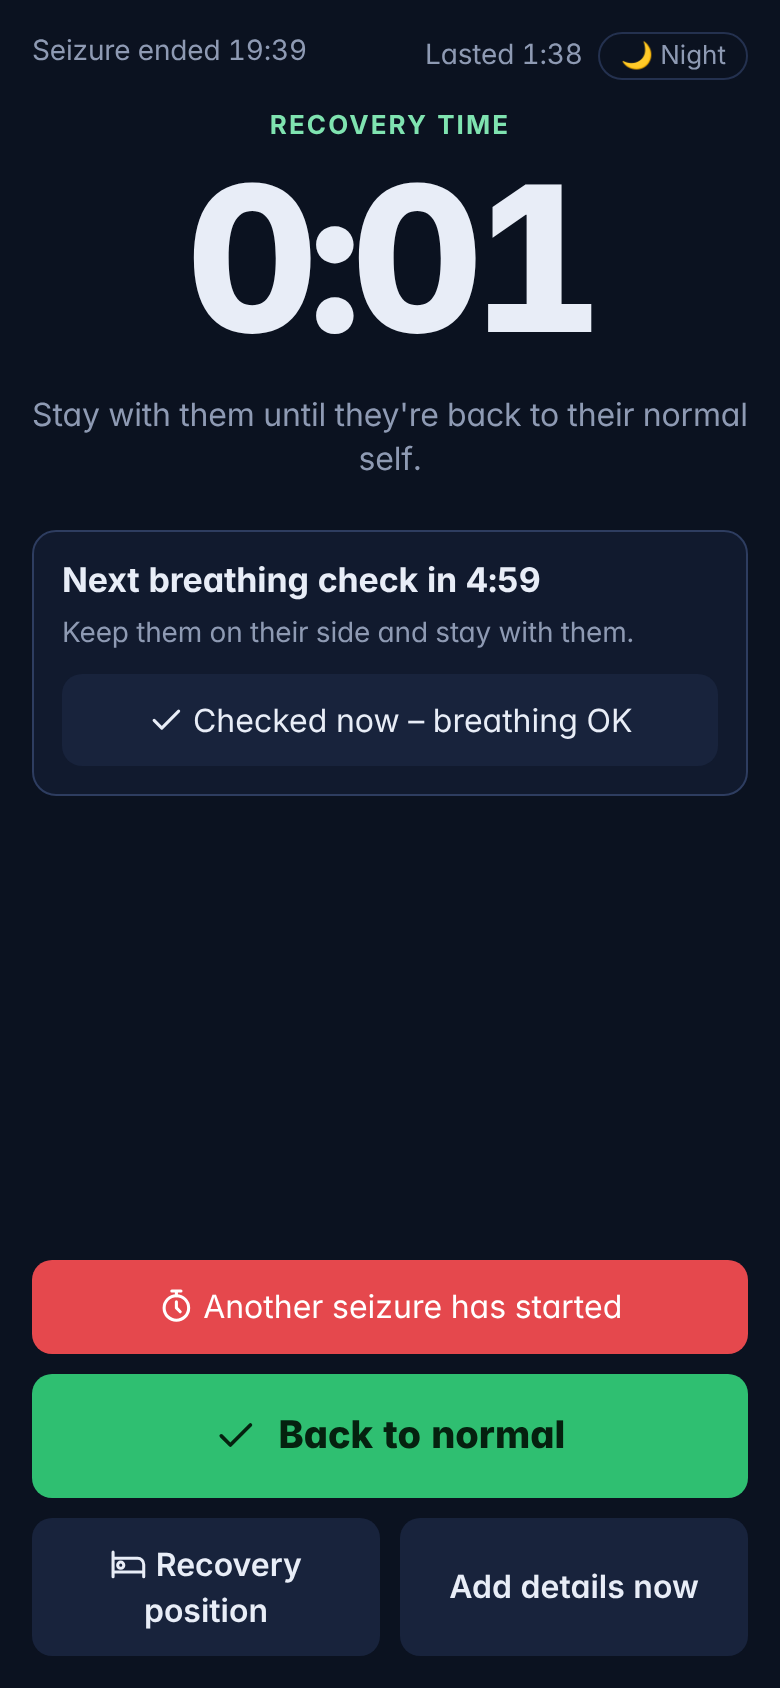
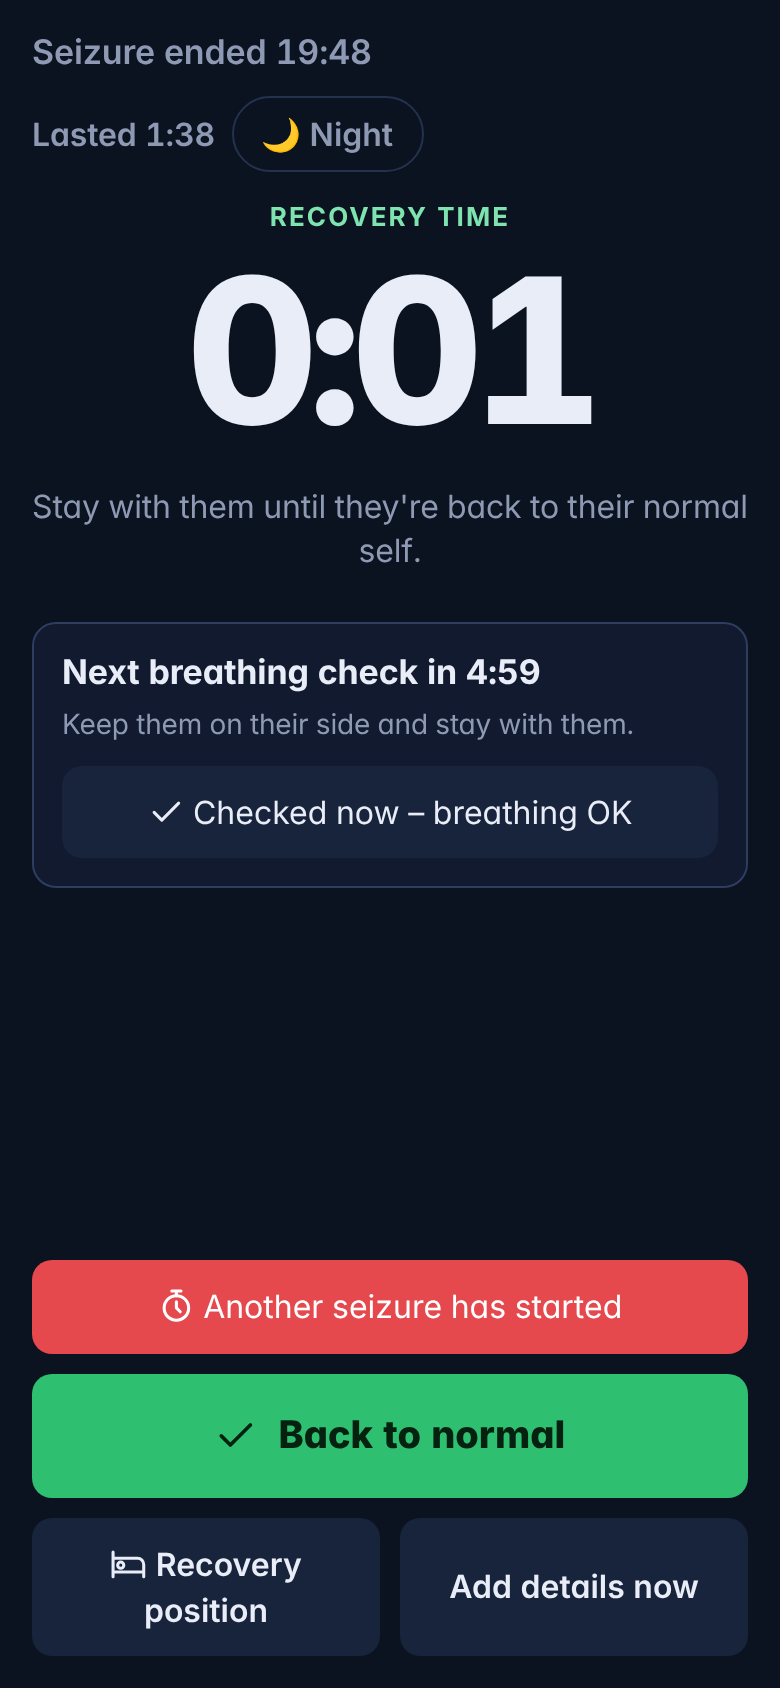
Bigger timer header (started time, alarm, night button); 'Alarm at 18 min' instead of '18:00'
Claude-Session: https://claude.ai/code/session_01UzPKDsSjRLwPgmuY5C3WvR

diff --git a/index.html b/index.html
@@ -520,6 +520,12 @@ html[data-theme="light"] body:not(.emergency) .obcard{box-shadow:0 1px 2px rgba(
 #battWrap{flex:1 1 0;min-height:0;display:flex;align-items:center;justify-content:center;width:100%}
 #battWarn{margin:0;padding:6px 12px;border-radius:999px;background:#fff4d6;color:#7a4b00;font-weight:600;font-size:14px;width:max-content;max-width:100%}
 #timer.night #battWarn{background:#1a0a02!important}
+/* larger timer header */
+#timer .top,#recov .top{font-size:17px!important;font-weight:600;gap:8px;flex-wrap:wrap;align-items:center}
+#timer .top>span:last-child,#recov .top>span:last-child{display:flex;align-items:center;gap:8px}
+#tAlarmAt{font-size:16px!important;font-weight:700!important;padding:7px 14px!important}
+#nightBtn,#rNightBtn{font-size:16px!important;font-weight:600;padding:7px 14px!important;margin-left:0!important;min-height:38px!important}
+#rLasted{font-size:16px}
 </style>
 </head>
 <body>
@@ -1414,7 +1420,7 @@ function openTimer(){
   if(active && active.night===undefined){ active.night=nightOn(); persistActive(); }
   $("#timer").classList.remove("hidden","amber","alarm"); applyNight();
   $("#tStarted").textContent="Started "+fmtTime(active.start);
-  const am=settings.alertMin||18; $("#tAlarmAt").textContent=`Alarm at ${am}:00`;
+  const am=settings.alertMin||18; $("#tAlarmAt").textContent=`Alarm at ${am} min`;
   if(settings.plan){ $("#planBox").textContent=settings.plan; $("#planBox").classList.remove("hidden"); } else $("#planBox").classList.add("hidden");
   $("#alertBox").classList.add("hidden");
   if(active && elapsed()<(settings.alertMin||18)*60) active.muted=false;   // can only silence an alarm that is sounding
@@ -2747,7 +2753,7 @@ function openAppt(a, note){
 $("#apptAdd").onclick = () => openAppt(null);
 
 // ---------- feedback ----------
-const APP_VERSION="2026.11.26-48";
+const APP_VERSION="2026.11.26-49";
 const FEEDBACK_TO="jamie1056@gmail.com";
 function feedbackHref(){
   const ua=navigator.userAgent, am=ua.match(/(Android [\d.]+);\s*([^;)]+)\)/), phone=am?`${am[1]}${am[2]&&am[2]!=="K"?" – "+am[2]:""}`:(/iPhone|iPad/.test(ua)?(ua.match(/OS [\d_]+/)||["iPhone"])[0].replace(/_/g,".")+" (iPhone)":"Computer");

diff --git a/sw.js b/sw.js
@@ -1,6 +1,6 @@
 // Caches the app so it opens instantly and works with no signal.
 // Only the app's own files and the Firebase library are cached – never database traffic.
-const CACHE = "seizure-tracker-v48";
+const CACHE = "seizure-tracker-v49";
 const FILES = ["./", "./index.html", "./manifest.webmanifest", "./icon-v2-192.png", "./icon-v2-512.png"];
 self.addEventListener("install", e => { e.waitUntil(caches.open(CACHE).then(c => c.addAll(FILES))); self.skipWaiting(); });
 self.addEventListener("activate", e => { e.waitUntil(caches.keys().then(ks => Promise.all(ks.filter(k => k !== CACHE).map(k => caches.delete(k))))); self.clients.claim(); });
